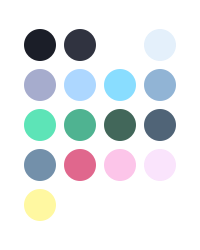
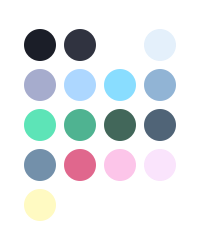
fix yellows, remove scroll border

Changed region(s): [[0.12, 0.756, 0.3, 0.896]]

diff --git a/src/theme.js b/src/theme.js
@@ -16,7 +16,7 @@ const italics = {
     hotRed: '#e0678d',
     pink: '#FCC5E9',
     brighterPink: '#FAE4FC',
-    brightYellow: '#fff8a1',
+    brightYellow: '#fffac2',
     transparent: '#00000000',
   },
   styles: {
@@ -90,7 +90,7 @@ function schema({ colors, styles }) {
       "minimap.findMatchHighlight": "${colors.lowerBlue}",
       "notifications.background": "${colors.bg}",
       "notifications.foreground": "${colors.offWhite}",
-      "panel.border": "${colors.bg}",
+      "panel.border": "${colors.transparent}",
       "panelTitle.activeForeground": "${colors.gray}",
       "peekView.border": "#00000030",
       "peekViewEditor.background": "${colors.gray}05",
@@ -240,7 +240,7 @@ function schema({ colors, styles }) {
       "editorMarkerNavigationInfo.background": "${colors.lightBlue}",
       "editorMarkerNavigationWarning.background": "${colors.brightYellow}",
       "editorOverviewRuler.addedForeground": "${colors.lowerMint}99",
-      "editorOverviewRuler.border": "#7f7f7f4d",
+      "editorOverviewRuler.border": "${colors.transparent},
       "editorOverviewRuler.bracketMatchForeground": "#a0a0a0",
       "editorOverviewRuler.commonContentForeground": "#60606066",
       "editorOverviewRuler.currentContentForeground": "#40c8ae80",
@@ -256,11 +256,11 @@ function schema({ colors, styles }) {
       "editorOverviewRuler.wordHighlightForeground": "#a0a0a0cc",
       "editorOverviewRuler.wordHighlightStrongForeground": "#c0a0c0cc",
       "editorPane.background": "${colors.bg}",
-      "editorRuler.foreground": "#5a5a5a",
+      "editorRuler.foreground": "${colors.gray}",
       "editorUnnecessaryCode.opacity": "#000000aa",
       "editorWarning.foreground": "${colors.brightYellow}",
       "editorWhitespace.foreground": "#e3e4e229",
-      "editorWidget.border": "#454545",
+      "editorWidget.border": "${colors.gray}",
       "editorWidget.foreground": "${colors.gray}",
       "errorForeground": "${colors.hotRed}",
       "extensionBadge.remoteBackground": "${colors.focus}",
@@ -271,14 +271,14 @@ function schema({ colors, styles }) {
       "gitDecoration.addedResourceForeground": "${colors.lowerMint}",
       "gitDecoration.conflictingResourceForeground": "${colors.hotRed}",
       "gitDecoration.deletedResourceForeground": "${colors.hotRed}",
-      "gitDecoration.ignoredResourceForeground": "#40404a",
+      "gitDecoration.ignoredResourceForeground": "${colors.gray}",
       "gitDecoration.modifiedResourceForeground": "${colors.bluishGrayBrighter}",
       "gitDecoration.renamedResourceForeground": "${colors.brightMint}",
       "gitDecoration.stageDeletedResourceForeground": "${colors.hotRed}",
       "gitDecoration.stageModifiedResourceForeground": "${colors.bluishGrayBrighter}",
       "gitDecoration.submoduleResourceForeground": "${colors.lowerBlue}",
       "gitDecoration.untrackedResourceForeground": "${colors.brightMint}",
-      "icon.foreground": "#c5c5c5",
+      "icon.foreground": "${colors.lowerBlue}",
       "imagePreview.border": "${colors.focus}",
       "inputOption.activeBackground": "${colors.transparent}",
       "inputOption.activeBorder": "#007acc00",
